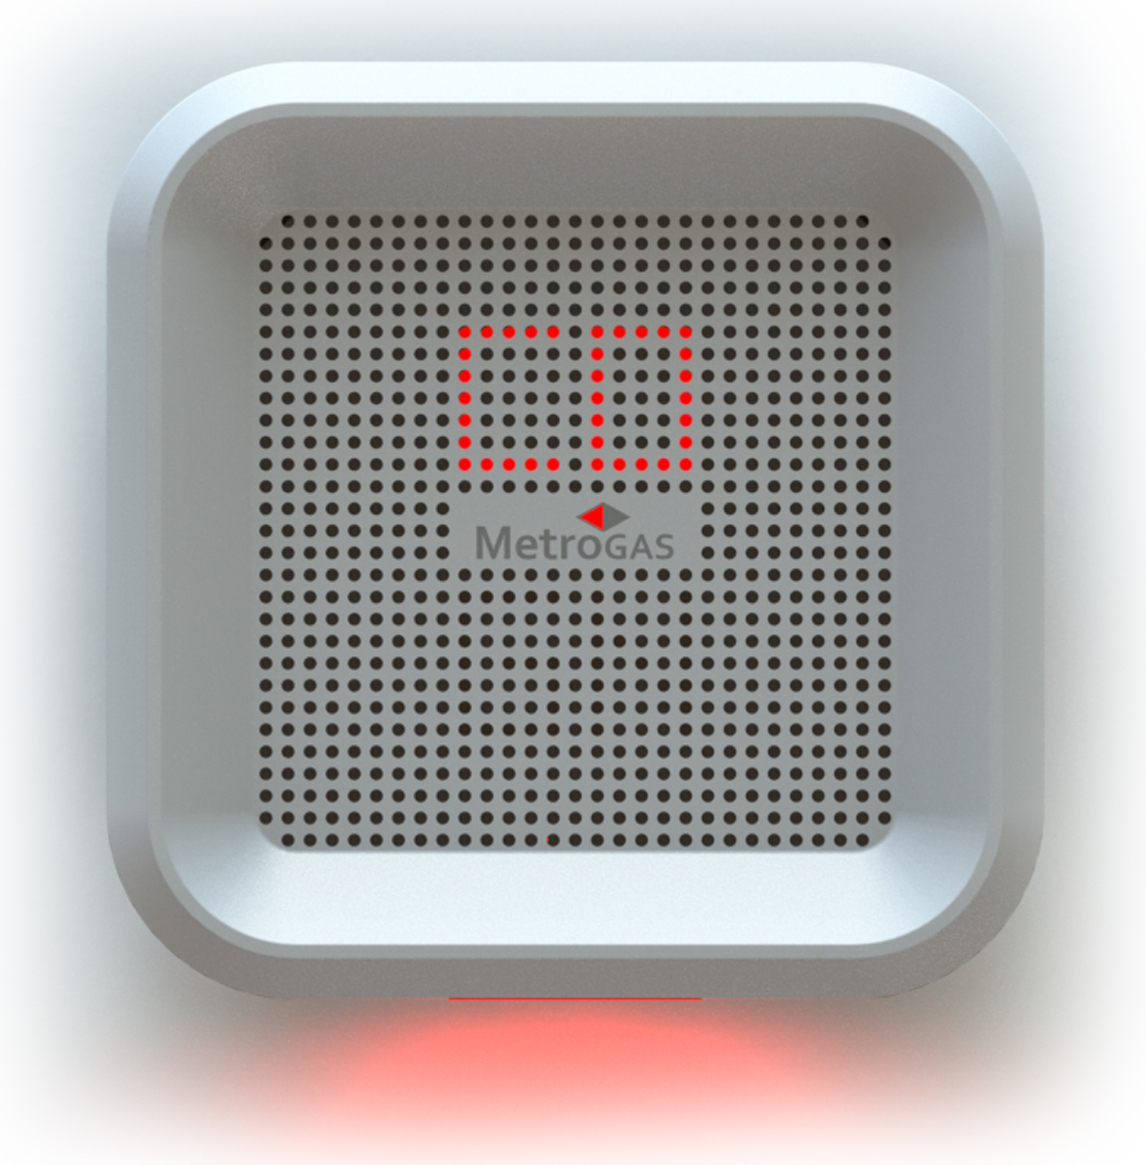
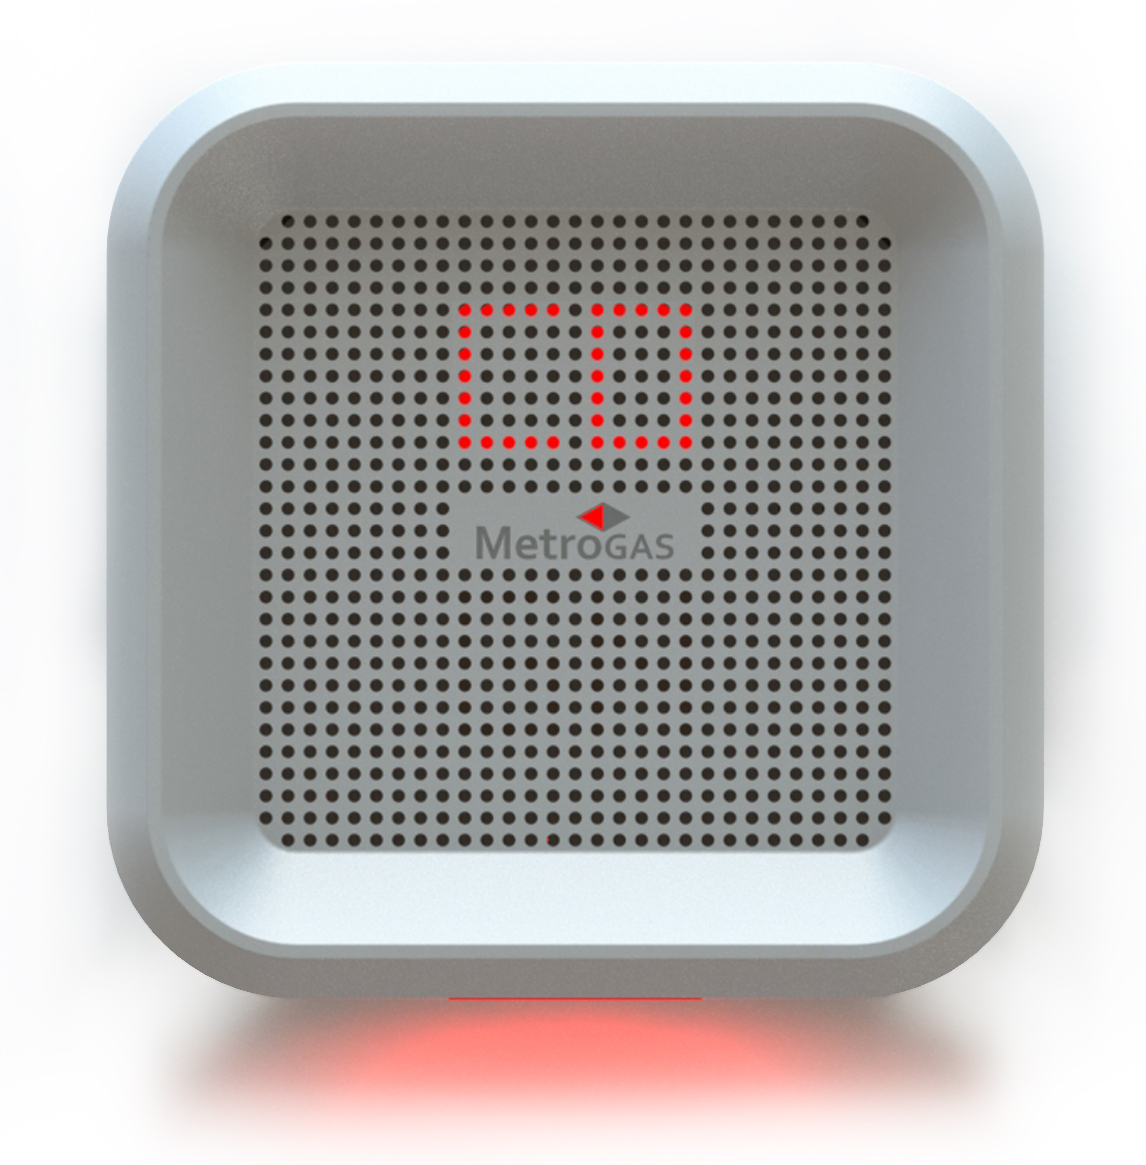
image changes

diff --git a/js/home/actions/loadImages.js b/js/home/actions/loadImages.js
@@ -6,7 +6,7 @@ imageMapping.web = {
     bigImage2Up: { file: 'assets/bigImage2_Web.png', load: true },
     bigImage2Down: { file: 'assets/bigImage2_Web.png', load: true },
     detector: { file: 'assets/detector.png', load: true },
-    // tech1: { file: 'assets/tech_Web.png', load: true },
+    tech1: { file: 'assets/tech_Web.png', load: true },
     techBig: { file: 'assets/techBig.png', load: true },
     detectorEmpty: { file: 'assets/detector_empty.png', load: true },
     detectorEmptyCatched: { file: 'assets/detector_empty.png', load: true },
@@ -19,10 +19,10 @@ imageMapping.web = {
     bigImage2Up: { file: 'assets/bigImage2_Web_P2.png', load: true },
     bigImage2Down: { file: 'assets/bigImage2_Web_P2.png', load: true },
     detector: { file: 'assets/Prendido_P2.png', load: true },
-    // tech1: { file: 'assets/tech_Web_P2.png', load: true },
-    tech1_0: { file: 'assets/Apagado_P2.png', load: true },
-    tech1_1: { file: 'assets/ApagadoLateral_P2.png', load: true },
-    tech1_2: { file: 'assets/ApagadoAtras_P2.png', load: true },
+    tech1: { file: 'assets/tech_Web_P2.jpg', load: true },
+    // tech1_0: { file: 'assets/Apagado_P2.png', load: true },
+    // tech1_1: { file: 'assets/ApagadoLateral_P2.png', load: true },
+    // tech1_2: { file: 'assets/ApagadoAtras_P2.png', load: true },
     techBig: { file: 'assets/techBig_P2.png', load: true },
     detectorEmpty: { file: 'assets/Apagado_P2.png', load: true },
     detectorEmptyCatched: { file: 'assets/Apagado_P2.png', load: true },
@@ -35,7 +35,7 @@ imageMapping.web = {
 imageMapping.mobile = {
   v1: {
     ...imageMapping.web.v1,
-    // tech1: { file: 'assets/tech_Mobile.png', load: true }
+    tech1: { file: 'assets/tech_Mobile.png', load: true }
   },
   v2: {
     ...imageMapping.web.v2,
@@ -58,7 +58,6 @@ imageMapping.mobile = {
     return;
   }
   const keys = Object.keys(imageMapping[device.name][currentPage]);
-  console.log(device.name, currentPage);
   for (let k = 0; k < keys.length; k += 1) {
     if (imageMapping[device.name][currentPage][keys[k]].load) {
       const elem = document.getElementById(keys[k]);

diff --git a/js/home/views/mobile.js b/js/home/views/mobile.js
@@ -23,10 +23,10 @@ mobile.resize = () => {
       pageTitle: { fontSize: '4vw' },
       techTitle1: { top: '2%' },
       techTitle2: { top: '94.5%' },
-      // tech1: { top: '98%' },
-      tech1_0: { top: '105%' },
-      tech1_1: { top: '105%' },
-      tech1_2: { top: '105%' },
+      tech1: { top: '98%' },
+      // tech1_0: { top: '105%' },
+      // tech1_1: { top: '105%' },
+      // tech1_2: { top: '105%' },
       techTitle3: { top: '118%' },
       techBig: { top: '130%', width: '100%', left: '0' },
       techDescription: { fontSize: '4vw', top: '10%', left: '5%', lineHeight: '100px' },

diff --git a/js/home/views/web.js b/js/home/views/web.js
@@ -27,10 +27,10 @@ web.resize = () => {
       },
       techTitle1: { top: '4%' },
       techTitle2: { top: '68%' },
-      // tech1: { top: '68%' },
-      tech1_0: { top: '68%' },
-      tech1_1: { top: '68%' },
-      tech1_2: { top: '68%' },
+      tech1: { top: '68%' },
+      // tech1_0: { top: '68%' },
+      // tech1_1: { top: '68%' },
+      // tech1_2: { top: '68%' },
       techTitle3: { top: '110%' },
       techBig: { top: '100%', width: '78%', left: '24%' },
       techDescription: { fontSize: '1.15vw', top: '2.3%', left: '33.33%', lineHeight: '33px' },

diff --git a/styles/home.css b/styles/home.css
@@ -372,7 +372,6 @@ body {
 }
 
 #tech1 {
-  display: none;
   position: absolute;
   left: 35%;
   width: 55%;
